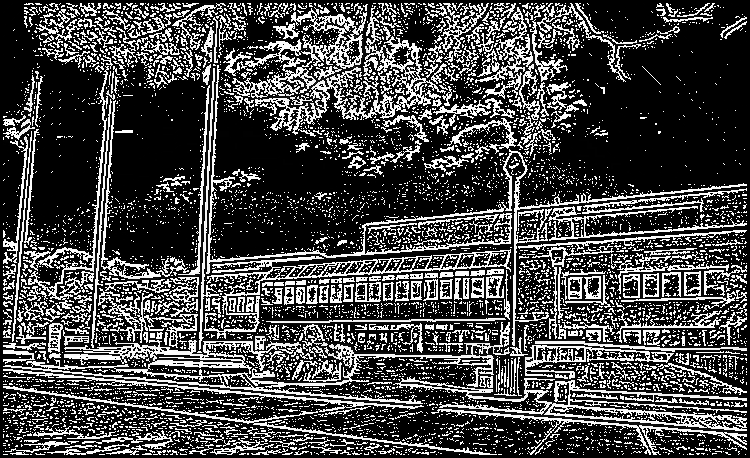
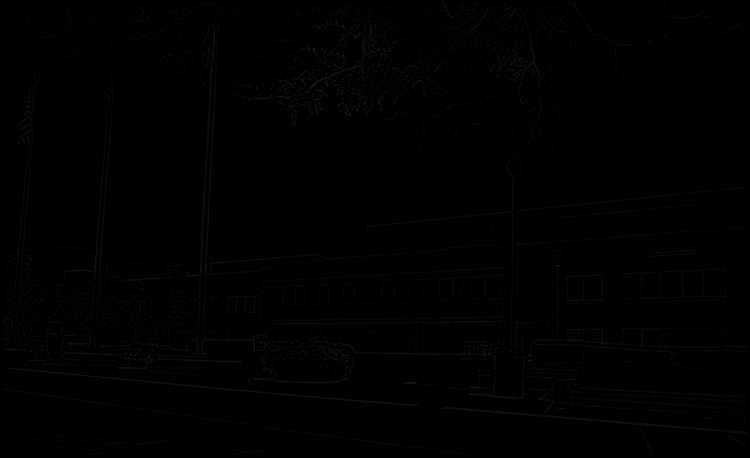
dynamic DoG

diff --git a/proj1_cse573/main.py b/proj1_cse573/main.py
@@ -24,30 +24,15 @@ def convolve_img(img, kernel,kernel_radius):
 
 	height, width = img.shape
 
-	output_image = np.zeros(img.shape, np.uint8)
+	output_image = np.zeros(img.shape, np.int)
 
 	# ignoring edge pixels for now.
 	# add padding zero
 
 	for i in range(kernel_radius, height-kernel_radius):
 		for j in range(kernel_radius, width-kernel_radius):
-			
-			# output_image[i][j] = 	img[i-1][j-1] * kernel[0][0] +	\
-			# 						img[i][j-1] * kernel[1][0] +	\
-			# 						img[i+1][j-1] * kernel[2][0] + 	\
-			# 						img[i-1][j] * kernel[0][1] + 	\
-			# 						img[i][j] * kernel[1][1] + 		\
-			# 						img[i+1][j] * kernel[2][1] + 	\
-			# 						img[i-1][j+1] * kernel[0][2] + 	\
-			# 						img[i][j+1] * kernel[1][2] + 	\
-			# 						img[i+1][j+1] * kernel[2][2]
-
-
-
-
 
 			# elementwise multiplication sum
-
 			
 			loop_end = (kernel_radius*2)+1
 
@@ -56,12 +41,7 @@ def convolve_img(img, kernel,kernel_radius):
 				for y in range(0,loop_end):
 					sum += kernel[x][y] * img[i-kernel_radius+x][j-kernel_radius+y]
 
-
-			
-
-
 			output_image[i][j] = sum
-
 
 
 	return output_image
@@ -74,10 +54,28 @@ def edge_detection_x(img):
 							[-1, 0, 1], 
 							[-2, 0, 2], 
 							[-1, 0 , 1] 
-						], np.int8)  
+						], np.float32)  
 
 	edge_x_img = convolve_img(img,x_kernel,1)
-	print_image(edge_x_img,'edge_x_img')
+
+	# print_image(edge_x_img,'x edge')
+	h,w = edge_x_img.shape
+
+	max_val = 0
+	for i in range(0,h):
+		for j in range(1,w):
+			edge_x_img[i][j] = abs(edge_x_img[i][j])
+			max_val = max(max_val,edge_x_img[i][j])
+
+	pos_edge_x = np.zeros(img.shape, np.float32)
+
+	for i in range(0,h):
+		for j in range(1,w):
+			pos_edge_x[i][j] = edge_x_img[i][j]/max_val
+
+	
+	print_image(pos_edge_x,'x_edge_detection_normalized')
+
 
 
 
@@ -87,11 +85,28 @@ def edge_detection_y(img):
 							[-1, -2, -1], 
 							[0, 0, 0], 
 							[1, 2 , 1] 
-						], np.int8)  
+						], np.float32)  
 
 
 	edge_y_img = convolve_img(img,y_kernel,1)
-	print_image(edge_y_img,'edge_y_img')
+	# print_image(edge_y_img,'edge_y_img')
+
+	h,w = edge_y_img.shape
+
+	max_val = 0
+	for i in range(0,h):
+		for j in range(1,w):
+			edge_y_img[i][j] = abs(edge_y_img[i][j])
+			max_val = max(max_val,edge_y_img[i][j])
+
+	pos_edge_y = np.zeros(img.shape, np.float32)
+
+	for i in range(0,h):
+		for j in range(1,w):
+			pos_edge_y[i][j] = edge_y_img[i][j]/max_val
+
+	
+	print_image(pos_edge_y,'y_edge_detectioin_normalized')
 
 
 def gaussian(x, mu, sigma):
@@ -119,7 +134,7 @@ def resize_image_to_half(img):
 
 	height, width = img.shape
 
-	output_image = np.zeros((int(height/2), int(width/2)), np.uint8)
+	output_image = np.zeros((int(height/2), int(width/2)), np.int)
 
 
 	i_op = 0
@@ -139,7 +154,6 @@ def resize_image_to_half(img):
 		i_op+=1
 
 	
-	#print_image(output_image,'output_image')
 	return output_image
 
 
@@ -147,12 +161,10 @@ def resize_image_to_half(img):
 def generate_gaussian_blur_for_an_image(img, octav_id, sigma_row):
 
 
-	for i in range(len(sigma_row)):
-
-		
+	for i in range(len(sigma_row)):		
 
 		gussian_blurred_img = convolve_img(img, get_gaussian_kernel(sigma_row[i]), 3)
-		#gussian_blurred_img  = cv2.GaussianBlur(img, (7,7), sigma_row[i],0)
+		
 		write_image(gussian_blurred_img,'gb_img_'+ octav_id +'_'+str(i))
 
 
@@ -186,33 +198,49 @@ def generate_octavs(image_1,sigma_table):
 	write_image(image_4,'octav_4_original')
 	generate_gaussian_blur_for_an_image(image_4,'octav_4', sigma_table[3])
 
-	# print(sigma_table[3])
 
 
-def compute_DoG():
 
-	for i in range(0,4):
-		for j in range(1,5):
+def compute_DoG(list):
+
+	
+
+	for j in range(1,5):
+		for i in range(0,4):
+		
 
 			img_lower_blur = cv2.imread("gb_img_octav_" + str(j) + "_" + str(i) + ".png", 0)
 			img_higher_blur = cv2.imread("gb_img_octav_" + str(j) + "_" + str(i+1) + ".png", 0)
+
+		
 			
-			write_image(img_higher_blur-img_lower_blur,'dog_octav_'+ str(j)+'_'+ str(i))
+
+
+			height, width = img_lower_blur.shape
+			difference = np.zeros(img_lower_blur.shape, dtype=int)
+
+
+			for h in range(0,height):
+				for w in range(0, width):
+					difference[h][w] = int(img_higher_blur[h][w]) - int(img_lower_blur[h][w])
 
 
 
-def find_maxima_minima(octav_num,layer):
+			
+			write_image(difference,'dog_octav_'+ str(j)+'_'+ str(i))
+			
+			list.append(difference)
 
-	output_image = cv2.imread("octav_" + str(octav_num) + "_original.png", 0)
-
-
-	dog_top = cv2.imread("dog_octav_" + str(octav_num) + "_" + str(layer-1) + ".png", 0)
-	dog_middle = cv2.imread("dog_octav_" + str(octav_num) + "_"+ str(layer) + ".png", 0)
-	dog_bottom = cv2.imread("dog_octav_" + str(octav_num) + "_" + str(layer+1) + ".png", 0)
+	return list
 
 
+
+def find_marked_maxima_minima(dog_top, dog_middle, dog_bottom, scale_multiplier, original_img):
 
 	height, width = dog_middle.shape
+
+	print(np.max(dog_middle))
+	print(np.min(dog_middle))
 
 
 	# traversing image
@@ -223,8 +251,9 @@ def find_maxima_minima(octav_num,layer):
 		for w in range(1, width-1):
 
 			#threshold
-			if dog_middle[h][w]<200:
+			if dog_middle[h][w]<2:
 				continue
+
 
 
 			# traversing and comparing 26 neighbours
@@ -240,40 +269,114 @@ def find_maxima_minima(octav_num,layer):
 					break
 
 			if is_maxima:
-				output_image[h][w] = 255
-			else:
+				original_img[h*scale_multiplier][w*scale_multiplier] = 255
+			# else:
 
-				is_minima = False
+			# 	is_minima = False
 
-				for i in range(h-1,h+2):
-					for j in range(w-1,w+2):
-						if (dog_middle[h][w] > dog_middle[i][j]) or (dog_middle[h][w] > dog_top[i][j]) or (dog_middle[h][w] > dog_bottom[i][j]):
-							is_minima = False
-							break
+			# 	for i in range(h-1,h+2):
+			# 		for j in range(w-1,w+2):
+			# 			if (dog_middle[h][w] > dog_middle[i][j]) or (dog_middle[h][w] > dog_top[i][j]) or (dog_middle[h][w] > dog_bottom[i][j]):
+			# 				is_minima = False
+			# 				break
 
-					if not is_minima:
-						break
-				if is_minima:
-					output_image[h][w] = 255
+			# 		if not is_minima:
+			# 			break
+			# 	if is_minima:
+			# 		original_img[h*scale_multiplier][w*scale_multiplier] = 255
 
-	print_image(output_image,'keypoints'+str(layer)+str(h)+str(w))
+	#print_image(original_img,'keypoints'+str(layer)+str(h)+str(w))
+	return original_img
 
-def find_keypoints():
+def find_keypoints(original_img, list_of_dog):
+
+
+	# scale_multiplier = 1
+
+	# #traversing 4 octavs
+	# for octav_num in range(1,5):
+
+	# 	# traversing 2 middle layers
+	# 	for layer in range(1,3):
+			
+	# 		original_img = find_marked_maxima_minima(list_of_dog[], scale_multiplier, original_img)
+
+	# 	scale_multiplier = scale_multiplier*2
+
+
+	find_marked_maxima_minima(list_of_dog[0],list_of_dog[1],list_of_dog[2], 1, original_img)
+	find_marked_maxima_minima(list_of_dog[1],list_of_dog[2],list_of_dog[3], 1, original_img)
+
+	find_marked_maxima_minima(list_of_dog[4],list_of_dog[5],list_of_dog[6], 2, original_img)
+	find_marked_maxima_minima(list_of_dog[5],list_of_dog[6],list_of_dog[7], 2, original_img)
+
+	find_marked_maxima_minima(list_of_dog[8],list_of_dog[9],list_of_dog[10], 4, original_img)
+	find_marked_maxima_minima(list_of_dog[9],list_of_dog[10],list_of_dog[11], 4, original_img)
+
+	find_marked_maxima_minima(list_of_dog[12],list_of_dog[13],list_of_dog[14], 8, original_img)
+	find_marked_maxima_minima(list_of_dog[13],list_of_dog[14],list_of_dog[15], 8, original_img)
 
 
 
-	#traversing 4 octavs
-	for octav_num in range(1,5):
+
+	write_image(original_img,'keypoints')
+
+
+
+def find_cursor():
+
+
+	for img_no in range(1,16):
+
+		original_image = cv2.imread('task3/pos_' + str(img_no) + '.jpg')
+
+		img_source = cv2.imread('task3/pos_' + str(img_no) + '.jpg',0)
 		
+		#template = cv2.imread('task3/template.png',0)
+		template = cv2.imread('task3/temp.jpg',0)
 
-		# traversing 2 middle layers
-		for layer in range(1,3):
-			
-			find_maxima_minima(octav_num,layer)
-			
+		
+		laplacian = cv2.Laplacian(cv2.GaussianBlur(img_source, (3,3),0),cv2.CV_8U)
+		img2 = laplacian.copy()
+		template = cv2.Laplacian(template,cv2.CV_8U)
+
+		# print_image(laplacian,"sdf")
+		# print_image(template,"sdfsdfsdf")
 
 
-			
+
+
+
+		w, h = template.shape[::-1]
+
+		#print_image(img_source,"sdfs")
+
+		# All the 6 methods for comparison in a list
+		methods = ['cv2.TM_CCOEFF', 'cv2.TM_CCOEFF_NORMED', 'cv2.TM_CCORR',
+		            'cv2.TM_CCORR_NORMED', 'cv2.TM_SQDIFF', 'cv2.TM_SQDIFF_NORMED']
+
+		for meth in methods:
+
+			oi = original_image.copy()
+			img = img2.copy()
+			method = eval(meth)
+
+			# Apply template Matching
+			res = cv2.matchTemplate(img,template,method)
+
+			min_val, max_val, min_loc, max_loc = cv2.minMaxLoc(res)
+
+			# If the method is TM_SQDIFF or TM_SQDIFF_NORMED, take minimum
+			if method in [cv2.TM_SQDIFF, cv2.TM_SQDIFF_NORMED]:
+			    top_left = min_loc
+			else:
+			    top_left = max_loc
+			bottom_right = (top_left[0] + w, top_left[1] + h)
+
+			cv2.rectangle(oi,top_left, bottom_right, 255, 2)
+			#print_image(img,"hello")
+			write_image(oi, 'task3/output/' + str(img_no) + meth)
+
 
 
 
@@ -286,10 +389,9 @@ def main():
 	# edge_detection_y(task_1_img)
 
 
-	#task 2
+	# #task 2
 
 	task_2_img = cv2.imread("task2.jpg", 0)
-	# task_2_img = cv2.imread("testcat.jpg", 0)
 
 	sigma_table = np.array([				
 							[1/sqrt(2), 1, sqrt(2), 2, 2*sqrt(2)], 
@@ -301,9 +403,24 @@ def main():
 
 	
 
-	# generate_octavs(task_2_img, sigma_table);
-	# compute_DoG()
-	find_keypoints()
+	#generate_octavs(task_2_img, sigma_table);
+
+	list = []
+	compute_DoG(list)
+	find_keypoints(task_2_img, list)
+
+
+	# #find_cursor()
+
+
+
+
+
+
+
+
+
+
 
 
 
